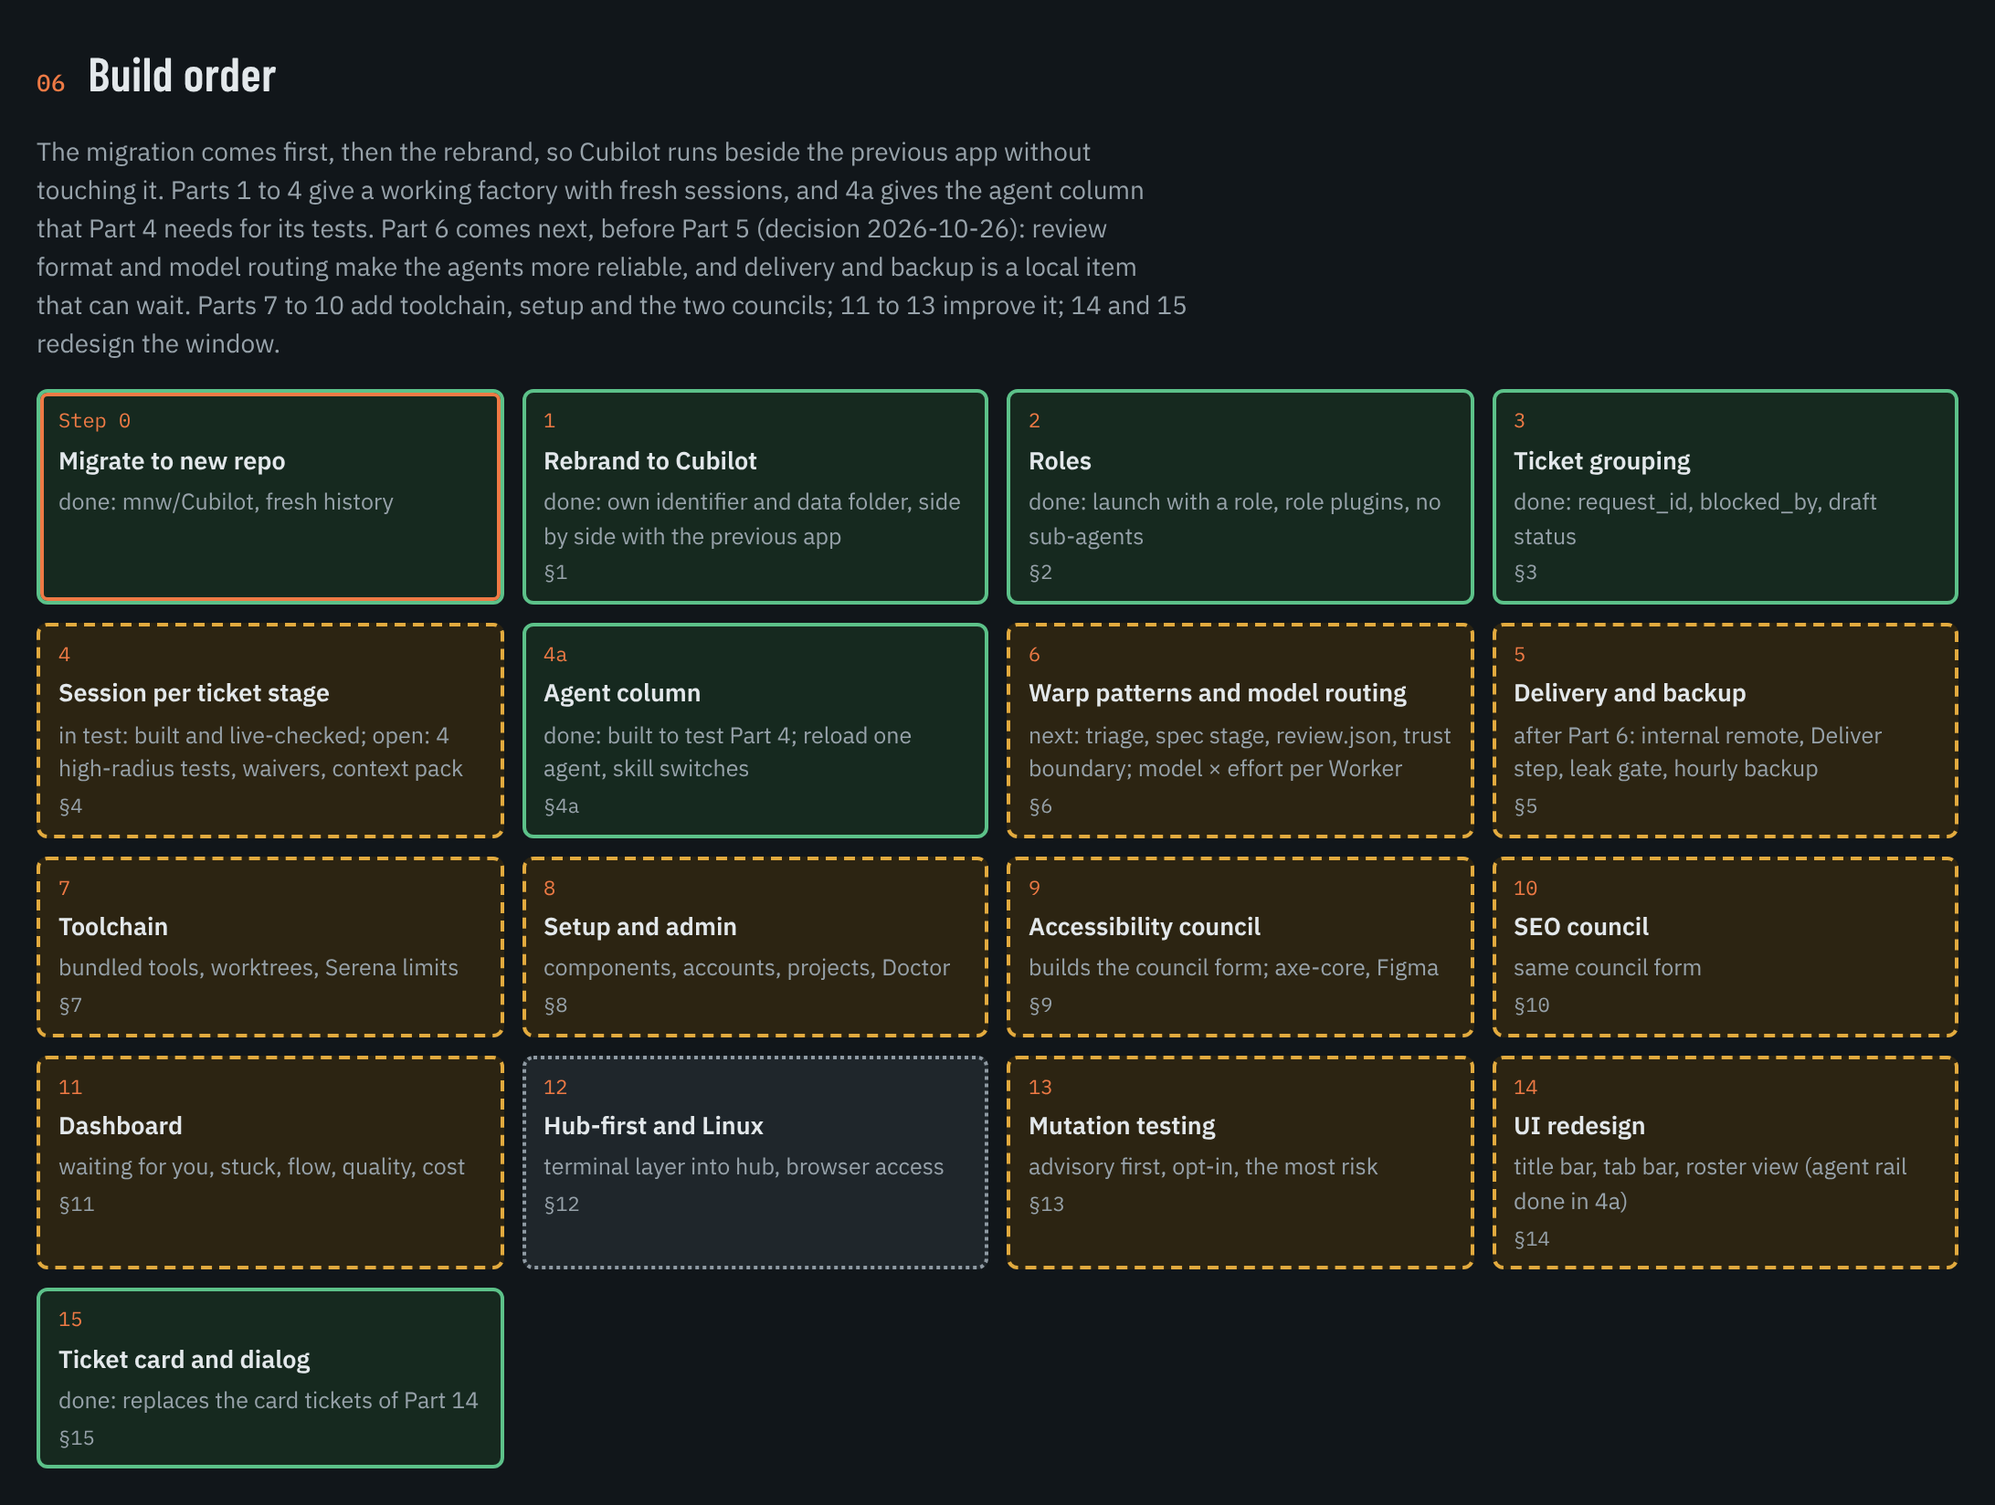
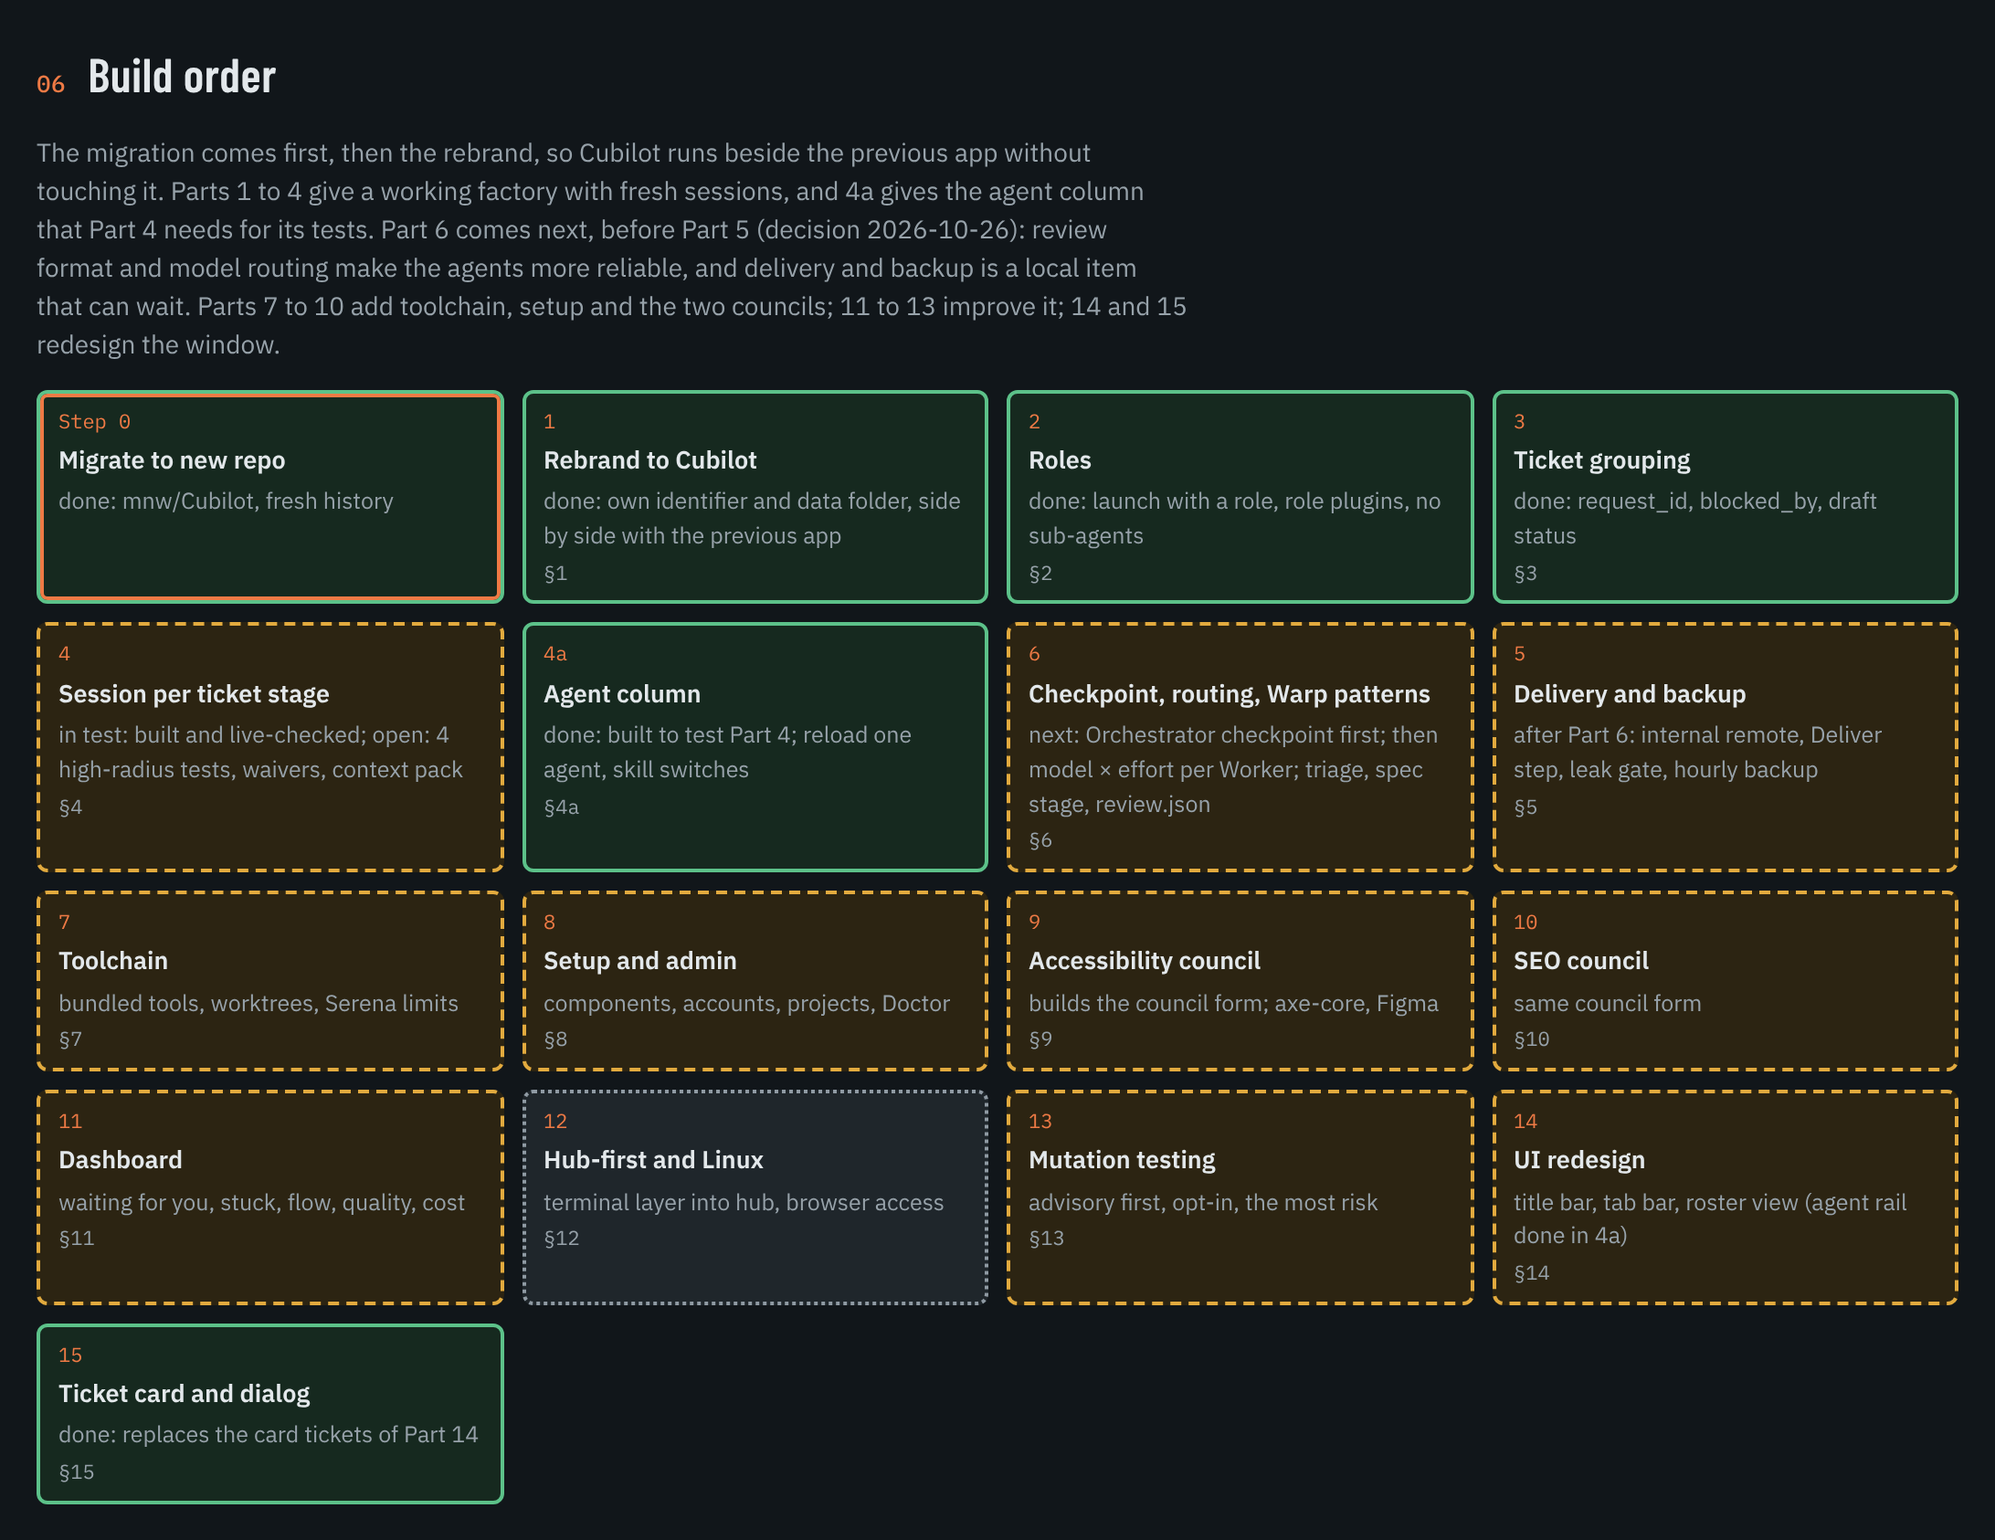
docs: Orchestrator checkpoint as Part 6 item 7 (build first); map

diff --git a/docs/factory-map.html b/docs/factory-map.html
@@ -200,7 +200,8 @@ footer{color:var(--muted);font-size:12.5px;display:grid;gap:4px}
         <div class="n planned"><span class="t">Dashboard route</span><span class="d">Read-only, per room</span><span class="ref">§11</span></div>
         <div class="n planned"><span class="t">Context pack</span><span class="d">Stable prefix first (cache), primer, graph query, signatures, stage notes; no model</span><span class="ref">§4</span></div>
         <div class="n planned"><span class="t">Model routing</span><span class="d">Model × effort per Worker stage: fixed rule first, then Jev; limits and human pin</span><span class="ref">§6</span></div>
-        <div class="n built"><span class="t">Requests and tasks</span><span class="d">request_id, blocked_by, draft status; context checkpoints stay an idea</span><span class="ref">§3</span></div>
+        <div class="n built"><span class="t">Requests and tasks</span><span class="d">request_id, blocked_by, draft status</span><span class="ref">§3</span></div>
+        <div class="n planned"><span class="t">Orchestrator checkpoint</span><span class="d">Clear and re-brief from a ledger summary at set points; never mid-decision; context % in the agent column</span><span class="ref">§6</span></div>
         <div class="n idea"><span class="t">Jev decision points</span><span class="d">Narrow typed decisions, see section 05</span></div>
       </div></div>
 
@@ -417,7 +418,7 @@ footer{color:var(--muted);font-size:12.5px;display:grid;gap:4px}
       <thead><tr><th>Where</th><th>Question</th><th>Data sent</th><th>Status</th></tr></thead>
       <tbody>
         <tr class="n planned" style="display:table-row;border:0;background:none"><td>Mutation survivors</td><td>act / review / ignore</td><td><span class="pill code">code snippets</span></td><td><span class="pill planned" style="border-color:var(--planned);color:var(--planned)">planned §13</span></td></tr>
-        <tr class="n idea" style="display:table-row;border:0;background:none"><td>Context checkpoints</td><td>none / compact / clear, per agent at a ticket boundary</td><td><span class="pill none">numbers only</span></td><td><span class="pill idea" style="border-color:var(--idea);color:var(--idea)">idea §3</span></td></tr>
+        <tr class="n planned" style="display:table-row;border:0;background:none"><td>Orchestrator checkpoint</td><td>checkpoint now or wait, at a due point</td><td><span class="pill none">numbers only</span></td><td><span class="pill planned" style="border-color:var(--planned);color:var(--planned)">planned §6</span></td></tr>
         <tr class="n idea" style="display:table-row;border:0;background:none"><td>Loop escalation</td><td>will this FAIL loop converge, or escalate now?</td><td><span class="pill none">counts only</span></td><td><span class="pill idea" style="border-color:var(--idea);color:var(--idea)">idea</span></td></tr>
         <tr class="n planned" style="display:table-row;border:0;background:none"><td>Model routing</td><td>model × effort for each Worker stage</td><td><span class="pill code">numbers only</span></td><td><span class="pill planned" style="border-color:var(--planned);color:var(--planned)">planned §6</span></td></tr>
         <tr class="n idea" style="display:table-row;border:0;background:none"><td>Stuck detection</td><td>stuck, looping or slow?</td><td><span class="pill none">activity metrics</span></td><td><span class="pill idea" style="border-color:var(--idea);color:var(--idea)">idea §11</span></td></tr>
@@ -440,7 +441,7 @@ footer{color:var(--muted);font-size:12.5px;display:grid;gap:4px}
     <div class="n built"><span class="step">3</span><span class="t">Ticket grouping</span><span class="d">done: request_id, blocked_by, draft status</span><span class="ref">§3</span></div>
     <div class="n planned"><span class="step">4</span><span class="t">Session per ticket stage</span><span class="d">in test: built and live-checked; open: 4 high-radius tests, waivers, context pack</span><span class="ref">§4</span></div>
     <div class="n built"><span class="step">4a</span><span class="t">Agent column</span><span class="d">done: built to test Part 4; reload one agent, skill switches</span><span class="ref">§4a</span></div>
-    <div class="n planned"><span class="step">6</span><span class="t">Warp patterns and model routing</span><span class="d">next: triage, spec stage, review.json, trust boundary; model × effort per Worker</span><span class="ref">§6</span></div>
+    <div class="n planned"><span class="step">6</span><span class="t">Checkpoint, routing, Warp patterns</span><span class="d">next: Orchestrator checkpoint first; then model × effort per Worker; triage, spec stage, review.json</span><span class="ref">§6</span></div>
     <div class="n planned"><span class="step">5</span><span class="t">Delivery and backup</span><span class="d">after Part 6: internal remote, Deliver step, leak gate, hourly backup</span><span class="ref">§5</span></div>
     <div class="n planned"><span class="step">7</span><span class="t">Toolchain</span><span class="d">bundled tools, worktrees, Serena limits</span><span class="ref">§7</span></div>
     <div class="n planned"><span class="step">8</span><span class="t">Setup and admin</span><span class="d">components, accounts, projects, Doctor</span><span class="ref">§8</span></div>

diff --git a/factory/brief/06-warp-patterns.md b/factory/brief/06-warp-patterns.md
@@ -1,4 +1,4 @@
-# Part 6: patterns from the Warp cloud factory, and model routing
+# Part 6: patterns from the Warp cloud factory, model routing and the Orchestrator checkpoint
 
 Source: https://github.com/warpdotdev-demos/cloud-factory-demo (MIT, Warp, last commit 2026-08-12). Read on 2026-10-18.
 
@@ -149,21 +149,75 @@ For each Worker stage, the hub chooses the model (Haiku, Sonnet or Opus) and the
 1. Does the effort level apply to Pi models in the same way? Today the effort is for Claude only.
 2. Is 50 Worker stages enough data before step B? Check the spread of first-pass rates after 50.
 
+### 7. Orchestrator checkpoint
+
+Status: decision 2026-10-27 (human). Build this item first in Part 6, before item 6 and items 1 to 5. Real use showed the problem: the Orchestrator's context filled to 77 % in one day. Messages used 66 % of the window. The work slowed down until the human cleared the context by hand.
+
+#### Goal
+
+The Orchestrator stays open for the whole room (Part 4). Its context must stay small. The board is the record of the factory, so the Orchestrator does not need to remember the work. At set points, the hub clears the Orchestrator's session and gives it a new state summary that code builds from the ledger.
+
+#### What exists
+
+- The manual checkpoint works (2026-10-27). The Orchestrator writes its open points into a ticket note. The human runs `/clear`. Then the Orchestrator reads the board, the note and `factory/work/README.md`.
+- Claude Code: `/clear` keeps `CLAUDE.md`. A `SessionStart` hook with matcher `clear` can return text as `additionalContext`.
+- Claude Code: the status line JSON has `context_window.used_percentage`. It counts input tokens only, and it can be empty early in a session and just after a compaction.
+- The agent column (Part 4a) shows each agent. It does not show the context percentage yet.
+
+#### Design
+
+1. **Measure first.** Count the entries that reach the Orchestrator, by kind (briefing, `ticket.*`, `handoff.*`, interrupt, chat, `stage.*`), with their size. Do the quick fixes in item 2 before the checkpoint, and measure again.
+2. **Quick fixes in the hub.**
+   - Do not send a new briefing to the room lead when a stage session joins or leaves the room. Stage sessions are short.
+   - Give the room lead a digest of ticket events instead of each event. Send at once only the events that need a decision: an escalation, a second FAIL, an approval.
+   - A handoff to the Orchestrator carries a summary and the ticket id. The Orchestrator reads the full findings from the ticket when it needs them.
+3. **Context data.** The role plugin of the Orchestrator sets a status line command. The command writes the status line JSON to `<app data>/context/<agent>.json`. The hub reads it. The agent column shows the percentage for each Claude agent.
+4. **State summary, built by code.** No model writes it. It has these parts, in this order:
+   - the open requests, with their tickets, statuses and blockers,
+   - the decisions that wait for the Orchestrator or for the human,
+   - the last 5 escalations and their state,
+   - the stage sessions that run now,
+   - the last note of the Orchestrator (item 5).
+   The size limit is 2,000 tokens. The summary names the tickets and the commands to read more.
+5. **The Orchestrator's own note.** Before a checkpoint, the hub asks the Orchestrator for a short note (at most 200 words): the open points that are not on the board. The hub stores it with the summary. If the Orchestrator does not answer in one turn, the checkpoint continues without the note.
+6. **When: the fixed rule (step A).**
+   - A checkpoint is due when a request is done, or when the context is at 60 % or more.
+   - It runs only when no decision is open: no approval that the Orchestrator waits for, no escalation in progress, no spec review that runs.
+   - It runs only at the end of a turn. Never in the middle of a tool call.
+   - The thresholds are settings in `config.yml`.
+7. **How.** The hub writes the summary to `<app data>/checkpoints/<agent>.md` and sends `/clear` to the Orchestrator's pane. A `SessionStart` hook (matcher `clear`) in the Orchestrator's role plugin reads the file, returns it as `additionalContext`, and removes the file.
+8. **When: Jev (step B).** Step A runs first for at least 20 checkpoints. Then, at each due point, the hub can ask Jev one typed question: "checkpoint now" or "wait". The question has only numbers and statuses. These are the context percentage, the minutes and tickets since the last checkpoint, and the open-decision flags. Code applies the limits of design step 6 to the answer. Jev uses the shared access of item 6 of this part. Jev stays on only when it gives fewer slowdowns than the rule and no lost thread.
+9. **Record.** For each checkpoint: the time, the trigger (rule, Jev or human), the context percentage before and after, and the size of the summary.
+
+#### Tests
+
+1. A request reaches `done` with no open decision. The checkpoint runs at the end of the Orchestrator's turn.
+2. A checkpoint is due while an approval is open: it waits until the approval is answered.
+3. After `/clear`, the Orchestrator's first context holds the summary. The summary is at most 2,000 tokens.
+4. A stage session that joins or leaves the room sends no new briefing to the room lead.
+5. A ticket event that needs no decision reaches the room lead only in the digest.
+6. The agent column shows the context percentage of the Orchestrator.
+
+#### Open questions
+
+1. Pi has no `SessionStart` hook. The Orchestrator is a Claude role, so this item covers Claude only. Check this again if the Orchestrator ever runs on Pi.
+2. Is 60 % the right threshold? Use the records of item 9 to tune it.
+
 ## Ideas for later
 
-### 7. Learning from the human's corrections
+### 8. Learning from the human's corrections
 
 Skill: `.agents/skills/improve-review-pr/SKILL.md`. A daily job reads how humans reacted to automated review comments. It opens a change to the review skill when it finds knowledge that the reviewer must keep.
 
 For the factory: when the human overrules a Validator or Reviewer verdict, record it with the reason. A scheduled job proposes changes to the role file or the skills. The human approves each change.
 
-### 8. Video evidence of UI behaviour
+### 9. Video evidence of UI behaviour
 
 Skill: `.agents/skills/verify-behavior/SKILL.md`. It checks each user story in a separate run, and records video and screenshots. It uses the Oz platform.
 
 For the factory: the Tester records Playwright video for UI tickets and attaches it to the ticket. One check for each user story in the spec, in parallel. This is useful for Drupal UI changes and for accessibility checks.
 
-### 9. Tests for skills
+### 10. Tests for skills
 
 File: `.agents/skills/triage/evals/evals.json`. Each entry has a prompt and the expected behaviour. Skill descriptions decide when skills load (Part 2, finding 4), so test the important skills with prompts like these. The `skill-creator` skill can run such tests.
 

diff --git a/factory/brief/00-index.md b/factory/brief/00-index.md
@@ -18,7 +18,7 @@ The brief has sixteen parts. The numbers follow the build order (decision 2026-1
 4. [04-sessions.md](04-sessions.md): Visible sessions (in test): no sub-agents, and one new session for each ticket stage. First, use a ticket runner outside the app.
 4a. [04a-agent-column.md](04a-agent-column.md): Agent column (done). The agents move to a left column in every view, with Reload for one agent and a switch for each skill. The human asked for it on 2026-10-24, so that Part 4 can be tested. Design note for the skill switches: [04a-c6-design.md](04a-c6-design.md).
 5. [05-delivery-backup.md](05-delivery-backup.md): Internal remote, clean delivery to the client, backups and recovery. You can set up the hourly backup at once.
-6. [06-warp-patterns.md](06-warp-patterns.md): Patterns from the Warp cloud factory: triage states, a spec stage, the `review.json` format, the trust boundary, follow-up reviews. Also model routing for Workers (item 6): the hub chooses the model and the effort for each Worker stage. Build Part 6 before Part 5 (decision 2026-10-26).
+6. [06-warp-patterns.md](06-warp-patterns.md): Patterns from the Warp cloud factory: triage states, a spec stage, the `review.json` format, the trust boundary, follow-up reviews. Also model routing for Workers (item 6), and the Orchestrator checkpoint (item 7, build it first). Build Part 6 before Part 5 (decision 2026-10-26).
 7. [07-toolchain.md](07-toolchain.md): Toolchain: the app installs and gives each agent Graphify, ripgrep, fd and Serena.
 8. [08-setup-admin.md](08-setup-admin.md): Setup and admin screen: install, sign in, add projects, check and update.
 9. [09-a11y-council.md](09-a11y-council.md): Accessibility and usability council. It builds the council form. It works on live pages, code, documents and Figma designs.

diff --git a/factory/brief/03-ticket-grouping-checkpoints.md b/factory/brief/03-ticket-grouping-checkpoints.md
@@ -1,6 +1,6 @@
 # Part 3: ticket grouping and context checkpoints
 
-Status: the grouping (`request_id`, `blocked_by`, the `draft` status) is a decision (2026-10-19). Build it before Part 4. The context checkpoints stay an idea.
+Status: the grouping (`request_id`, `blocked_by`, the `draft` status) is a decision (2026-10-19). Build it before Part 4. The context checkpoints for the Orchestrator are planned in Part 6, item 7 (decision 2026-10-27). For the other roles they stay an idea, because each stage gets a new session (Part 4).
 
 **Change 2026-10-18 (Part 4).** The app launches a new session for each ticket stage, so most agents never fill their context. The checkpoints in this part then apply to the Orchestrator only, because it stays open for the whole room. The first message of a new session comes from the ticket: criteria, earlier verdicts, findings and files (Part 4). The grouping in this part (`request_id`, `blocked_by`) does not change. Build the checkpoint design only if the Orchestrator's context fills in real use.
 

diff --git a/README.md b/README.md
@@ -40,7 +40,7 @@ Cubilot is a macOS desktop app. It runs a team of coding agents (Claude Code, an
 
 <picture>
   <source media="(prefers-color-scheme: dark)" srcset="docs/readme/05-jev-dark.png">
-  <img alt="Jev decision points: narrow typed decisions, two planned (model routing, mutation survivors) and five ideas" src="docs/readme/05-jev-light.png" width="100%">
+  <img alt="Jev decision points: narrow typed decisions, three planned (Orchestrator checkpoint, model routing, mutation survivors) and four ideas" src="docs/readme/05-jev-light.png" width="100%">
 </picture>
 
 <picture>
